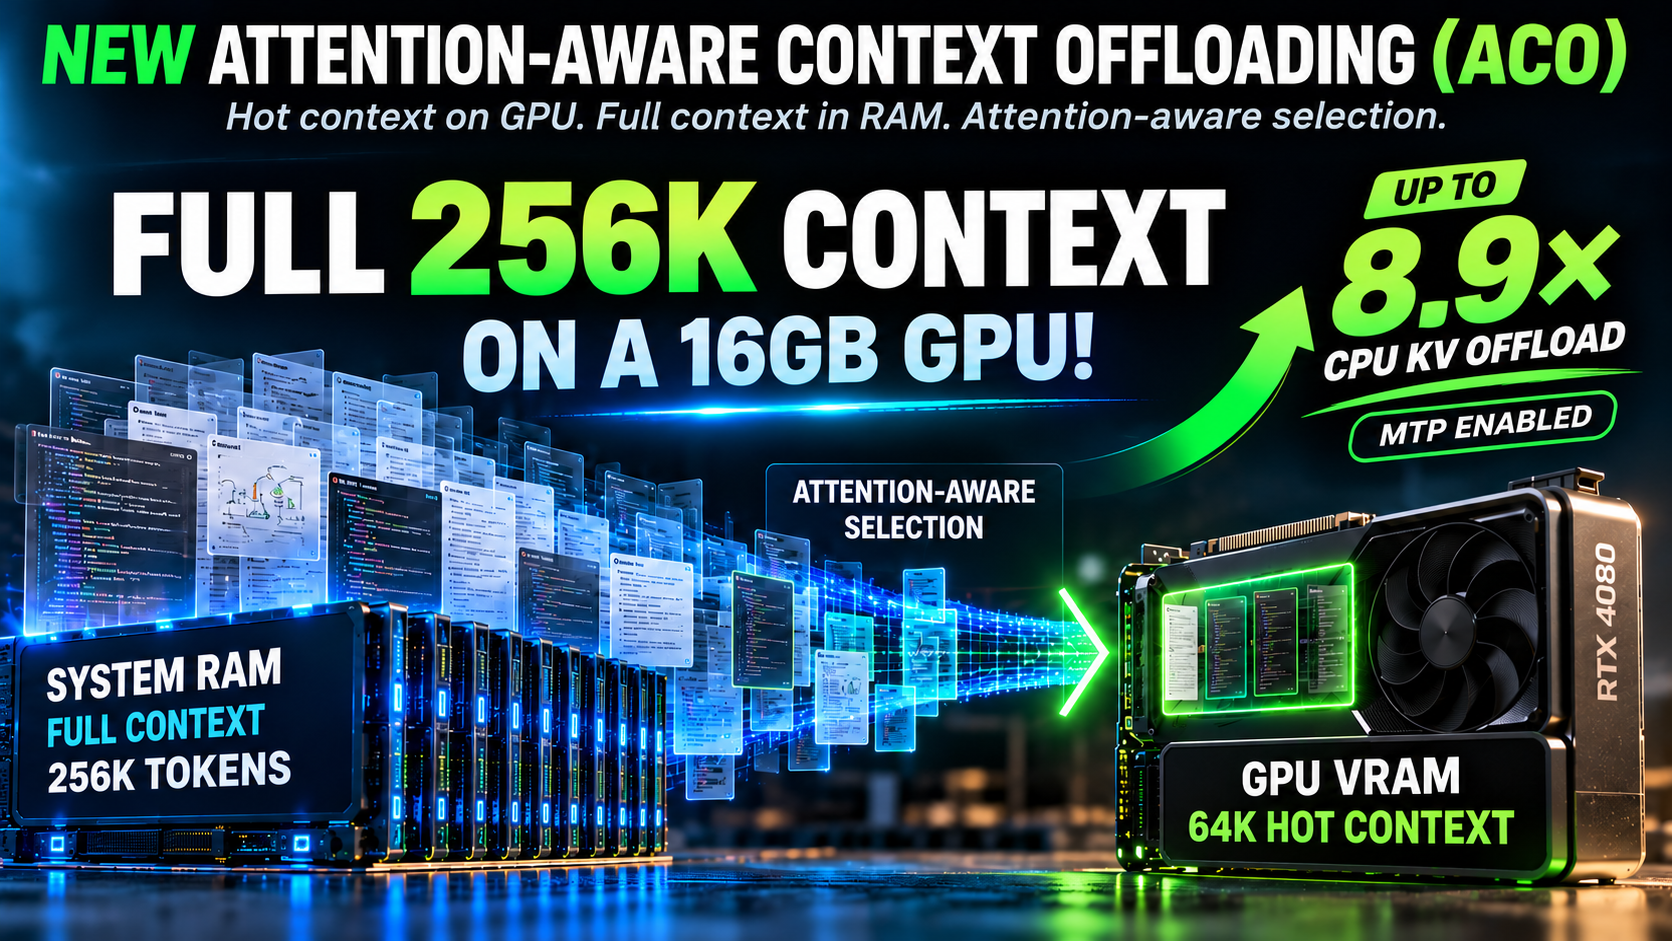
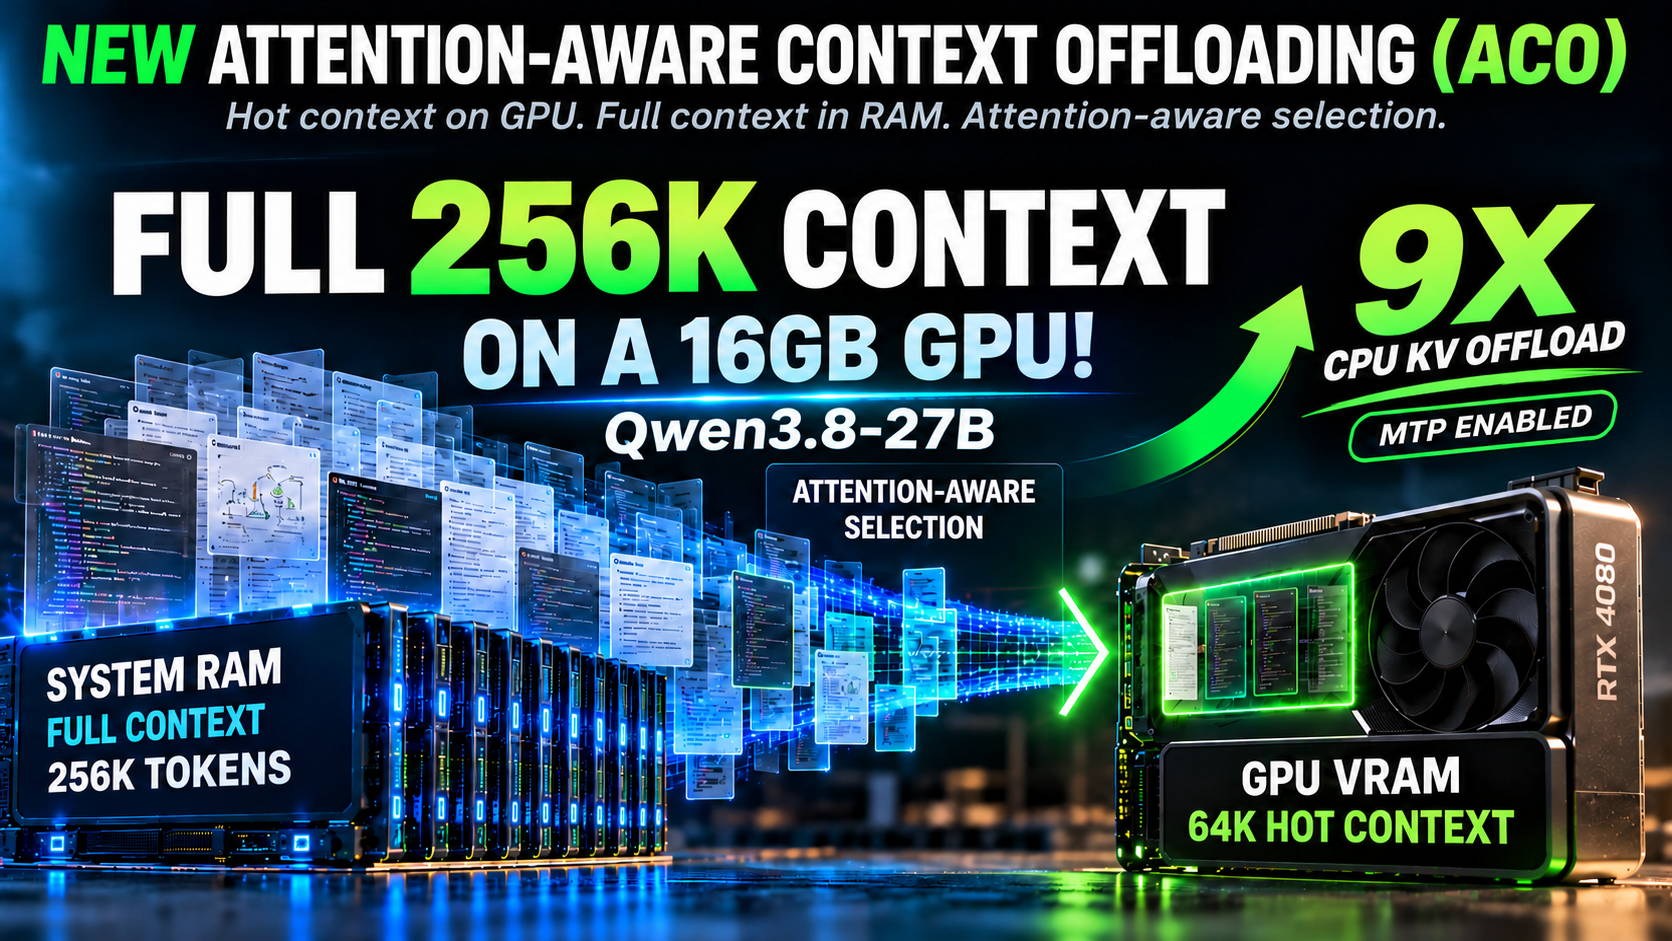
docs(aco): update cover to 9X and label Qwen3.8

diff --git a/docs/aco-article.md b/docs/aco-article.md
@@ -2,7 +2,7 @@
 
 *Attention-Aware Context Offloading keeps the history in RAM, the working context on the GPU, and native MTP in the loop.*
 
-![ACO with 256K context, 64K hot GPU context and up to 8.9× CPU-offload decode speed with MTP enabled](aco-figures/figures/cover.png)
+![Qwen3.8-27B with ACO: 256K context, 64K hot GPU context and 9X CPU KV offload with MTP enabled](aco-figures/figures/cover.png)
 
 Last time, I [pushed Qwen3.8-27B past 100 tokens per second on a 16GB RTX 4080](https://medium.com/@paulvanliew/i-made-qwen3-8-27b-run-2-5-faster-breaking-100-tok-s-on-a-16gb-rtx-4080-72b6a99d7a42). The next problem was less glamorous, but much more familiar to anyone building a local coding agent:
 
